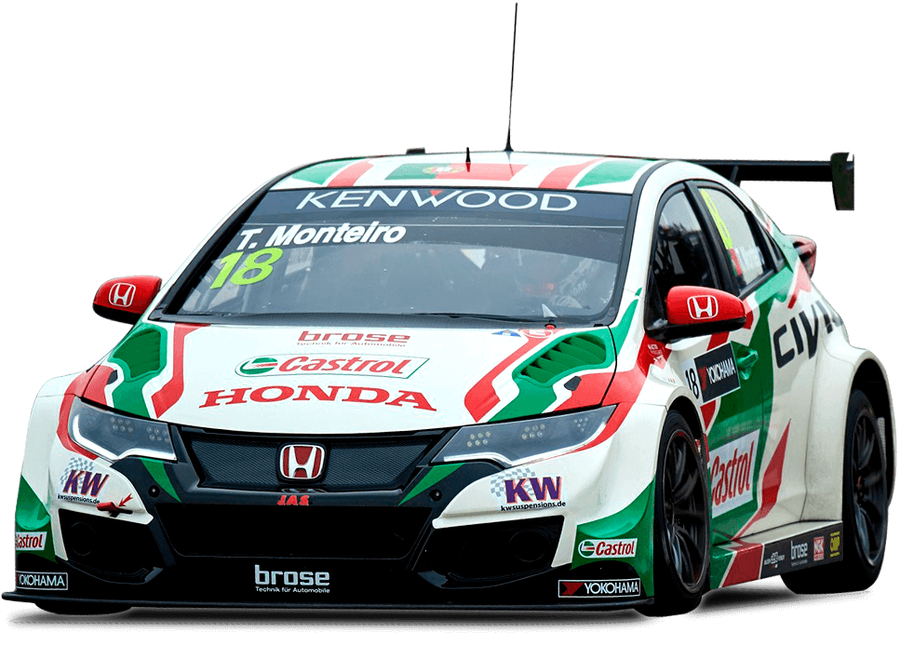
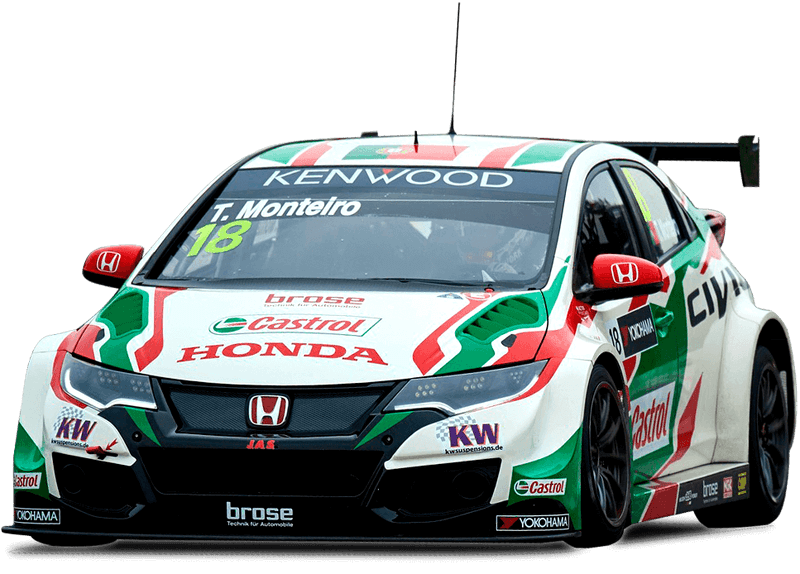
resized and compressed image: car-2

diff --git a/index.html b/index.html
@@ -538,7 +538,7 @@
             <img class="ms-layer car2 allcars"
                  alt="car"
                  data-offset-x="50"
-                 data-offset-y="0"
+                 data-offset-y="25"
                  data-origin="br"
                  data-type="image"
                  data-effect="right(1200, false)"
